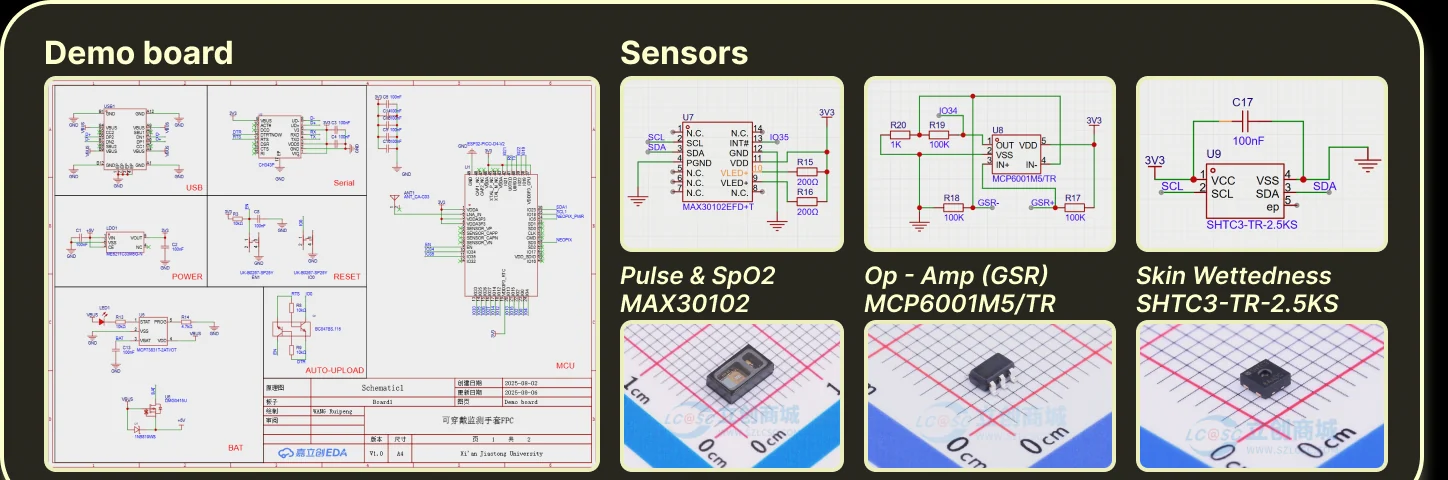
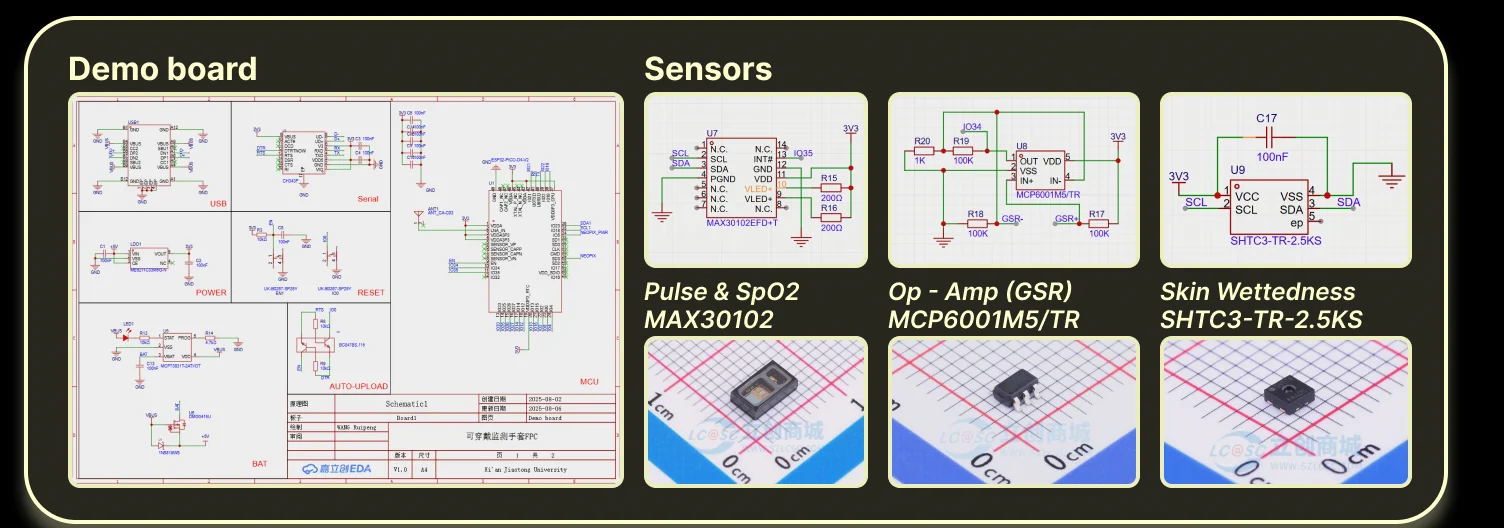
Bio-Adaptive: cards in one row, finding as a centred quote, full schematic card and wettedness plot, paper note
Claude-Session: https://claude.ai/code/session_01XeHpuxAMHs1wL3HRrsMEM6

diff --git a/src/pages/BioCaseStudy.tsx b/src/pages/BioCaseStudy.tsx
@@ -74,9 +74,9 @@ const GALLERY: StoryImage[] = [
   img('b_g2b', 516, 380, 'Second participant over ice', 'Group 2, cold.'),
   img('b_g2c', 540, 380, 'Second participant in the sun', 'Group 2, hot.'),
   img('b_gsrplot', 1256, 424, 'GSR over time through the cold and hot phases', 'GSR: it falls in the cold and climbs steeply in the heat.'),
-  img('b_wetplot', 1256, 404, 'Skin wettedness over time through the cold and hot phases', 'Skin wettedness follows the same course.'),
+  img('b_wetplot', 1256, 424, 'Skin wettedness over time through the cold and hot phases', 'Skin wettedness follows the same course.'),
   img('b_block', 752, 472, 'Block diagram: ESP32 MCU with battery, power, pulse and SpO2, wettedness, GSR, Type-C and antenna', 'System: ESP32-PICO-D4 at the centre.'),
-  img('b_schem', 1448, 480, 'Schematics of the demo board and the three sensor circuits', 'Schematic: demo board and sensor circuits.'),
+  img('b_schem', 1504, 528, 'Schematics of the demo board and the three sensor circuits', 'Schematic: demo board and sensor circuits.'),
   img('b_layout', 776, 420, 'PCB layout in JLCPCB EDA', 'Layout.'),
   img('b_pcbfb', 816, 424, 'PCB front and back layers', 'Front and back.'),
   img('b_fpc1', 508, 420, 'Flexible circuit worn across the fingers', 'FPC on the hand.'),
@@ -269,6 +269,7 @@ const BioCaseStudy = ({ project, prev, next }: { project: ProjectData; prev: Pro
             <Reveal>
               <dl className="cs-facts bi-facts">
                 <div><dt>Type</dt><dd>Research project<br /><span>with three hospitals in Zhangjiakou</span></dd></div>
+                <div><dt>Paper</dt><dd>Accepted, forthcoming</dd></div>
                 <div><dt>Setting</dt><dd>Orthopedic wards</dd></div>
                 <div><dt>Senses</dt><dd>Galvanic skin response (GSR)<br />Skin wettedness</dd></div>
                 <div><dt>Methods</dt><dd>Field study, questionnaires<br />Sensor experiments<br />FPC design, CFD simulation</dd></div>
@@ -376,25 +377,28 @@ const BioCaseStudy = ({ project, prev, next }: { project: ProjectData; prev: Pro
       <section className="cs-sec">
         <div className="cs-wrap">
           <SectionHead index="04" label="Engagement" title="Six cards, no thinking required." />
-          <div className="cs-split cs-split--wide">
+          <div className="cs-split">
+            <div />
             <Reveal>
-              <ul className="bi-cards" aria-label="Feeling cards">
-                {FEELINGS.map(f => <li key={f.zh}><span className="zh" lang="zh-CN">{f.zh}</span><span className="en">{f.en}</span></li>)}
-              </ul>
-            </Reveal>
-            <Reveal delay={100}>
               <p className="cs-body">
                 To see how much the neutral temperature differs from one patient to the next, a low cognitive load
                 test: six cards with simple feelings written on them, so patients of every kind could choose without
                 having to think.
               </p>
-              <p className="bi-finding">Patients in the same ward also experience differences in their individual thermal sensation.</p>
             </Reveal>
           </div>
+          <Reveal>
+            <ul className="bi-cards cs-gap-top" aria-label="Feeling cards">
+              {FEELINGS.map(f => <li key={f.zh}><span className="zh" lang="zh-CN">{f.zh}</span><span className="en">{f.en}</span></li>)}
+            </ul>
+          </Reveal>
           <Reveal>
             <div className="bi-sessions cs-gap-top">
               {[1, 2, 3, 4, 5, 6].map(i => <Shot key={i} i={g(`b_s${i}`)} open={open} cap={false} />)}
             </div>
+          </Reveal>
+          <Reveal>
+            <p className="bi-finding cs-gap-top">Patients in the same ward also experience differences in their individual thermal sensation.</p>
           </Reveal>
           <Reveal>
             <div className="bi-hmw cs-gap-top">

diff --git a/src/components/casestudy/bio.css b/src/components/casestudy/bio.css
@@ -98,12 +98,13 @@
 .bi-group-facts dd { margin: 0; color: rgba(255, 255, 255, 0.85); }
 
 /* ---------- engagement ---------- */
-.bi-cards { list-style: none; margin: 0; padding: 0; display: grid; grid-template-columns: repeat(3, 1fr); gap: clamp(8px, 1vw, 14px); }
+.bi-cards { list-style: none; margin: 0; padding: 0; display: grid; grid-template-columns: repeat(6, 1fr); gap: clamp(8px, 1vw, 14px); }
 .bi-cards li { aspect-ratio: 0.72; border-radius: 12px; background: linear-gradient(160deg, #5b8cff, #2f5fe6); color: #fff; display: flex; flex-direction: column; align-items: center; justify-content: center; gap: 8px; box-shadow: 0 10px 30px -14px rgba(47, 95, 230, 0.6); transition: transform 0.5s var(--ease); }
 @media (hover: hover) { .bi-cards li:hover { transform: translateY(-6px) rotate(-1.5deg); } }
-.bi-cards .zh { font-family: 'Noto Serif SC', serif; font-size: clamp(40px, 4.4vw, 64px); line-height: 1; }
+@media (max-width: 699px) { .bi-cards { grid-template-columns: repeat(3, 1fr); } }
+.bi-cards .zh { font-family: 'Noto Serif SC', serif; font-size: clamp(36px, 4vw, 60px); line-height: 1; }
 .bi-cards .en { font-family: var(--mono); font-size: 11px; letter-spacing: 0.1em; text-transform: uppercase; opacity: 0.8; }
-.bi-finding { margin: 32px 0 0; padding-left: 18px; border-left: 2px solid var(--amber); font-family: var(--serif); font-weight: 300; font-size: clamp(20px, 2vw, 26px); line-height: 1.4; color: var(--ink); }
+.bi-finding { margin-left: auto; margin-right: auto; max-width: 30ch; text-align: center; border-left: 0 !important; padding-left: 0 !important; margin-bottom: 0; padding-left: 18px; border-left: 2px solid var(--amber); font-family: var(--serif); font-weight: 300; font-size: clamp(24px, 2.8vw, 38px); line-height: 1.3; color: var(--ink); }
 .bi-sessions { display: grid; grid-template-columns: repeat(3, 1fr); gap: clamp(8px, 1.2vw, 16px); }
 @media (max-width: 699px) { .bi-sessions { grid-template-columns: 1fr 1fr; } }
 .bi-hmw { border-top: 1px solid var(--ink); padding-top: 22px; }
